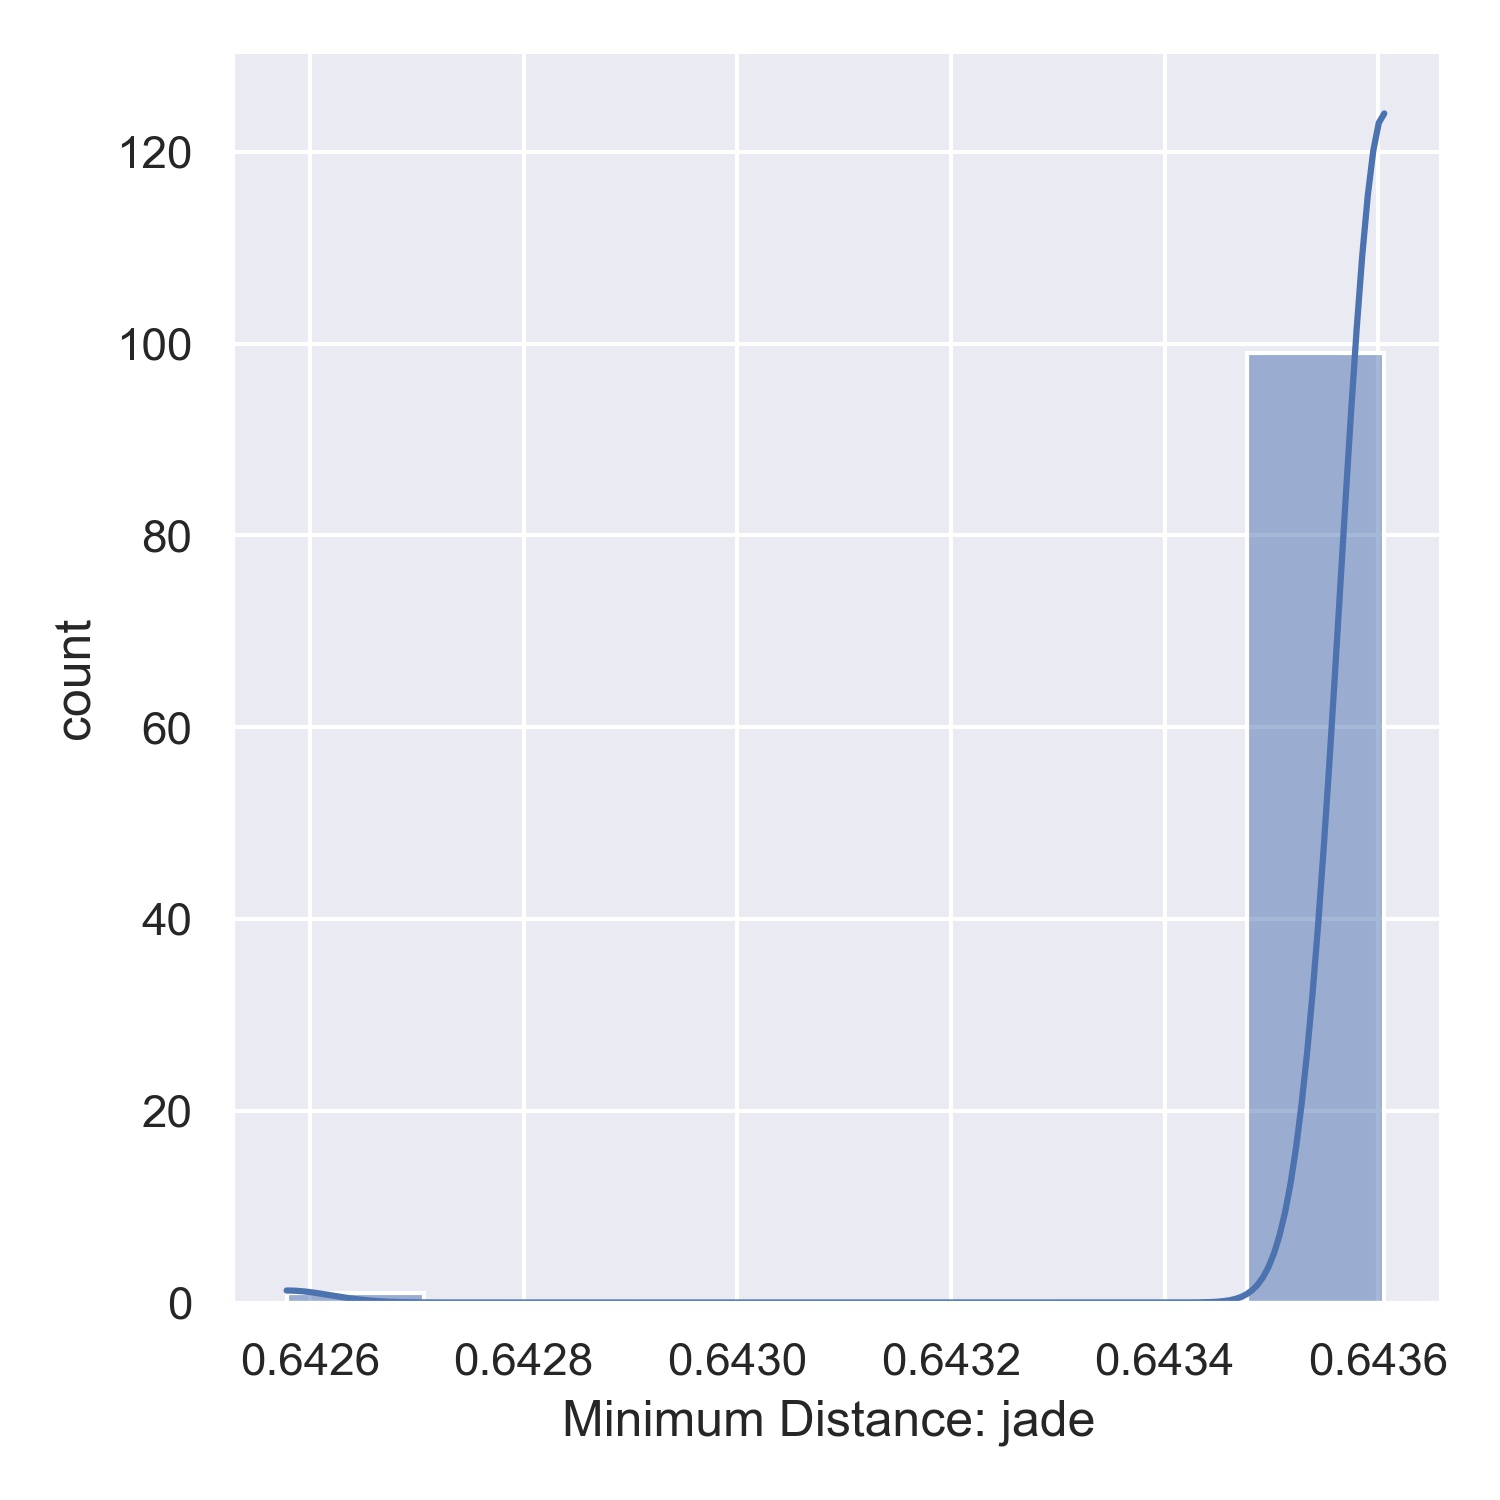
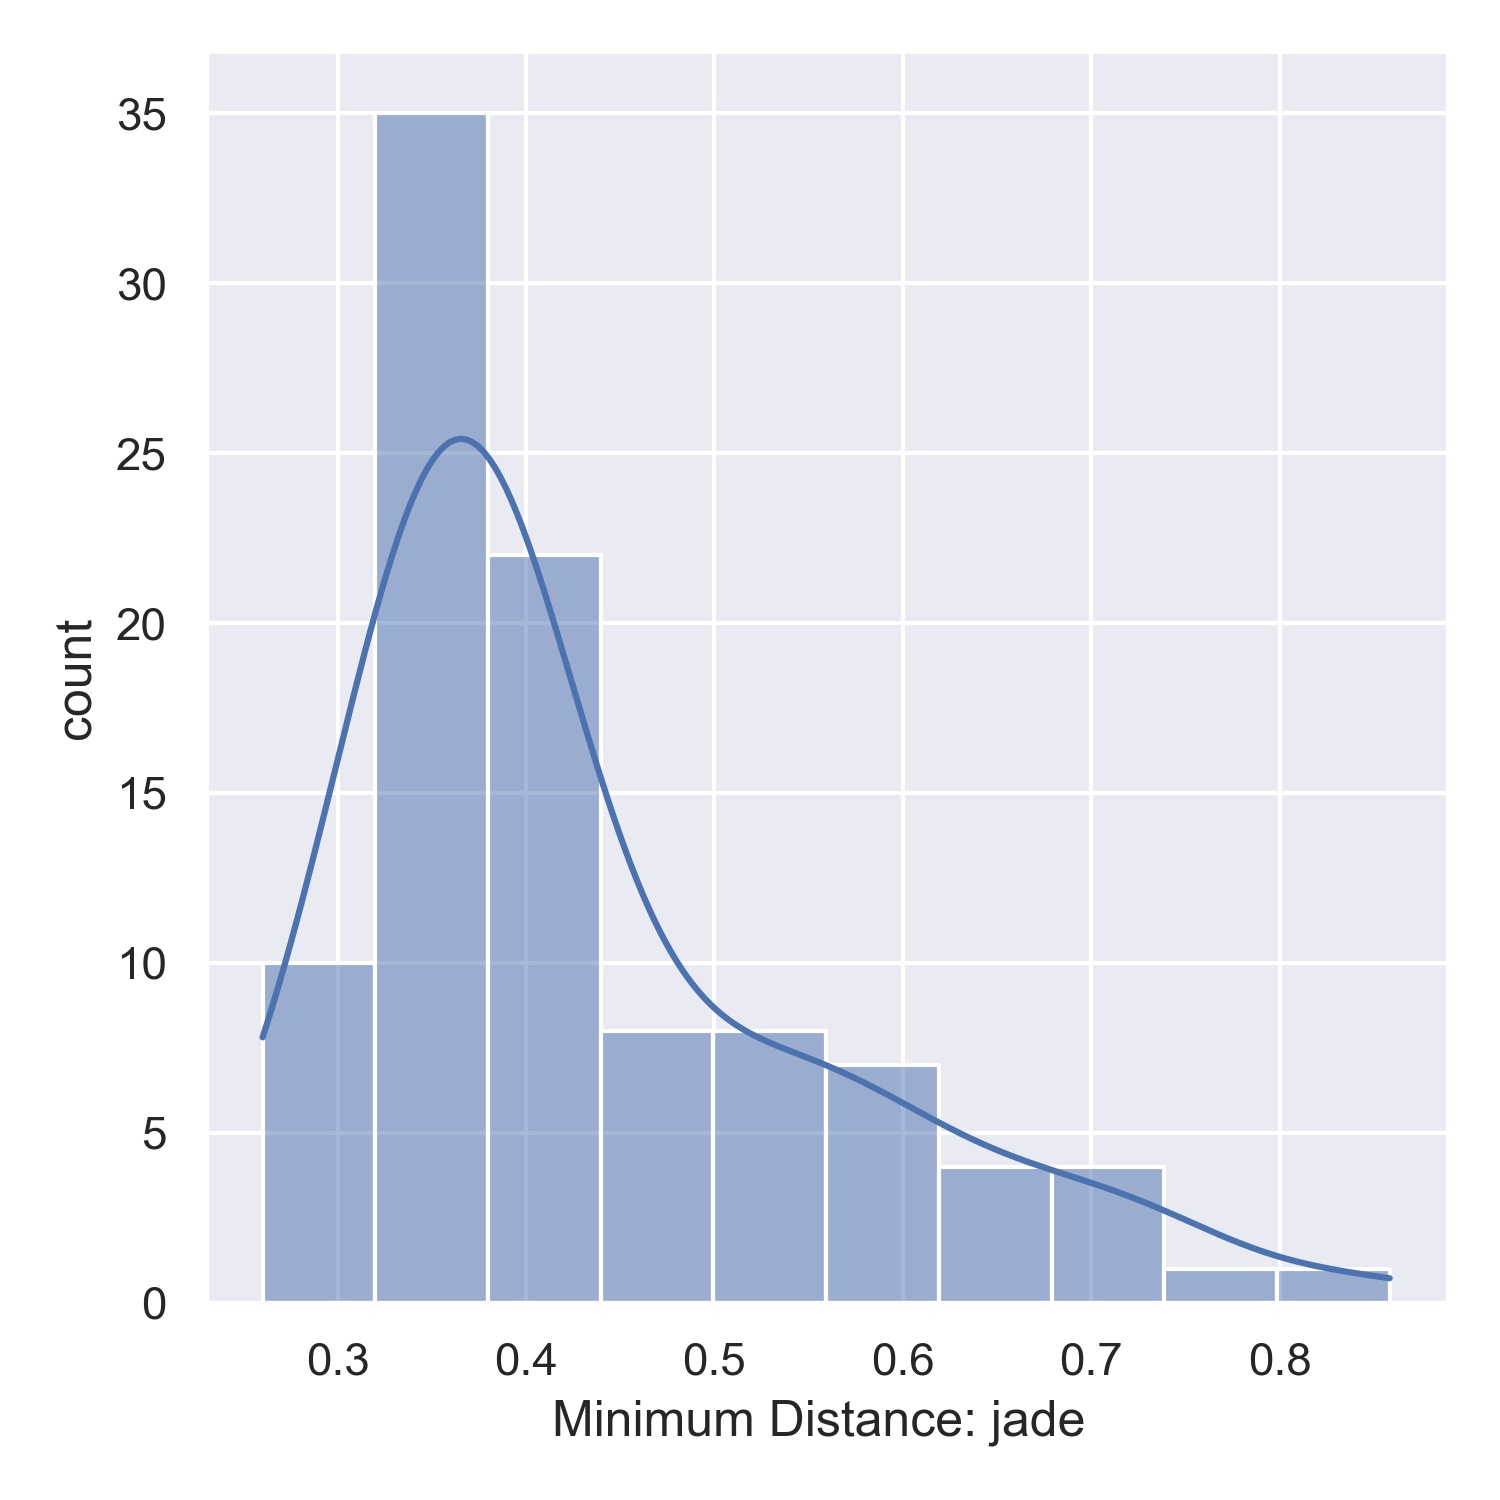
CoroICA
added CoroIca to Monte Carlo, Signal_test, Tut korbi

diff --git a/utils/monte_carlo_random_walk.py b/utils/monte_carlo_random_walk.py
@@ -11,7 +11,7 @@ import time
 import os
 import sys
 
-from Python_Code.Compare_ICA_algos.fast_Radical import RADICAL
+#from Python_Code.Compare_ICA_algos.fast_Radical import RADICAL
 from utils import mixing_matrix, create_signal, create_outlier, apply_noise, whitening
 
 BASE_DIR = os.path.dirname(os.path.dirname(os.path.realpath( __file__ )))
@@ -26,6 +26,7 @@ from jade import jadeR
 from distances import *
 
 import pandas as pd
+from coroica import CoroICA
 
 
 
@@ -56,7 +57,7 @@ def monte_carlo_run(n_samples,ica_method,seed = None, noise_lvl = 20):
 
     :return: 
     """
-    methods = ["jade","power_ica","fast_ica","radical"]
+    methods = ["jade","power_ica","fast_ica","radical","coro_ica"]
     
     assert (ica_method in methods), \
         "Can't choose  '%s' as ICA - method, possible optiions: %s" %(ica_method, methods)
@@ -83,7 +84,7 @@ def monte_carlo_run(n_samples,ica_method,seed = None, noise_lvl = 20):
         
         if(new_MM):
             MM = mixing_matrix(r,None)
-            print(MM)
+            #print(MM)
             mixdata = MM@data.T
             #apply noise
             mixdata_noise = np.stack([create_outlier(apply_noise(dat,type='white', SNR_dB=noise_lvl),prop=0.001,std=5) for dat in mixdata])
@@ -92,6 +93,8 @@ def monte_carlo_run(n_samples,ica_method,seed = None, noise_lvl = 20):
             if(seed is not None):
                 new_MM = False
 
+        print(mixdata_noise.shape)
+        print(white_data.shape)
         if(ica_method == "jade"):
             # Perform JADE
             W = jadeR(white_data,is_whitened=True, verbose = False)
@@ -107,6 +110,11 @@ def monte_carlo_run(n_samples,ica_method,seed = None, noise_lvl = 20):
         elif (ica_method == "radical"):
             # Perform Radical
             W = RADICAL(white_data)
+        elif (ica_method == 'coro_ica'):
+            #print(r)
+            c = CoroICA(partitionsize = 100,groupsize= 10000)
+            c.fit(white_data.T)
+            W = c.V_
         else:
             return
         
@@ -141,7 +149,7 @@ def monte_carlo_run(n_samples,ica_method,seed = None, noise_lvl = 20):
 if __name__ == "__main__":
 
     # do a monte-carlo run
-    monte_carlo_run(100,'jade', seed = None, noise_lvl=20)
+    monte_carlo_run(100,'coro_ica', seed = None, noise_lvl=20)
 
 
 

diff --git a/Python_Code/Compare_ICA_algos/Signal_test_1.py b/Python_Code/Compare_ICA_algos/Signal_test_1.py
@@ -5,7 +5,7 @@ from utils import *
 import PowerICA
 import os
 import sys
-
+from coroica import CoroICA
 
 from fast_Radical import *
 
@@ -54,11 +54,16 @@ W_jade = np.squeeze(np.asarray(W_jade))
 #Perform fastICA
 W_radical = RADICAL(white_data)
 #W_fast = sklearn.decomposition.FastICA(n_components=4,whiten=True)
+
+c = CoroICA(partitionsize = 100,groupsize= 10000)
+c.fit(white_data.T)
+W_coro = c.V_
 #%%
 # Un-mix signals using
 unMixed_power = W_power @ white_data
 unMixed_jade = W_jade @ white_data
 unMixed_radical = W_radical @ white_data
+unMixed_coro = W_coro @ white_data
 
 #Compute Minimum Distance Index of different ICA algorithms
 
@@ -83,6 +88,7 @@ fig3, axs3 = plt.subplots(r, sharex=True)
 fig4, axs4 = plt.subplots(r, sharex=True)
 fig5, axs5 = plt.subplots(r, sharex=True)
 fig6, axs6 = plt.subplots(r, sharex=True)
+fig7, axs7 = plt.subplots(r, sharex=True)
 
 while(i<r):
     # input signals
@@ -110,6 +116,10 @@ while(i<r):
     axs6[i].plot(unMixed_radical.T[:, i], lw=3)
     axs6[i].set_ylabel('sig: ' + str(i))
     fig6.suptitle('Recovered signals RADICAL')
+
+    axs7[i].plot(unMixed_coro.T[:, i], lw=3)
+    axs7[i].set_ylabel('sig: ' + str(i))
+    fig7.suptitle('Recovered signals CoroICA')
 
     i = i+1
 

diff --git a/Tutorials_Korbi/plot_background_ica.py b/Tutorials_Korbi/plot_background_ica.py
@@ -49,6 +49,7 @@ from os.path import dirname, realpath, sep, pardir
 import os
 
 import sys
+from coroica import CoroICA
 
 
 BASE_DIR = os.path.dirname(os.path.dirname(os.path.realpath( __file__ )))
@@ -110,19 +111,28 @@ S_jade = B_jade @ X.T
 #print(A_jade)
 # S_jade = B_jade @ X.T
 
-plt.figure(figsize=(9, 6))
+
+c = CoroICA(partitionsize = 100,groupsize= 2000)
+# groups = np.zeros(X.shape[0])
+# partition = np.array([2000])
+c.fit(X)
+# c.V_ holds the unmixing matrix
+
+recovered_sources = c.transform(X)
+
+plt.figure(figsize=(10, 6))
 
 # plt.plot(S_jade[0,:],S_jade[1,:],S_jade[2,:])
-models = [X, S, S_, H, S_jade.T]
+models = [X, S, S_, H, S_jade.T, recovered_sources]
 names = ['Observations (mixed signal)',
          'True Sources',
          'ICA estimated sources',
          'PCA estimated sources',
-         'JADE']
+         'JADE','CoroICA']
 colors = ['red', 'steelblue', 'orange']
 
 for ii, (model, name) in enumerate(zip(models, names), 1):
-    plt.subplot(5, 1, ii)
+    plt.subplot(6, 1, ii)
     plt.title(name)
     print(model.shape)
     for sig, color in zip(model.T, colors):
